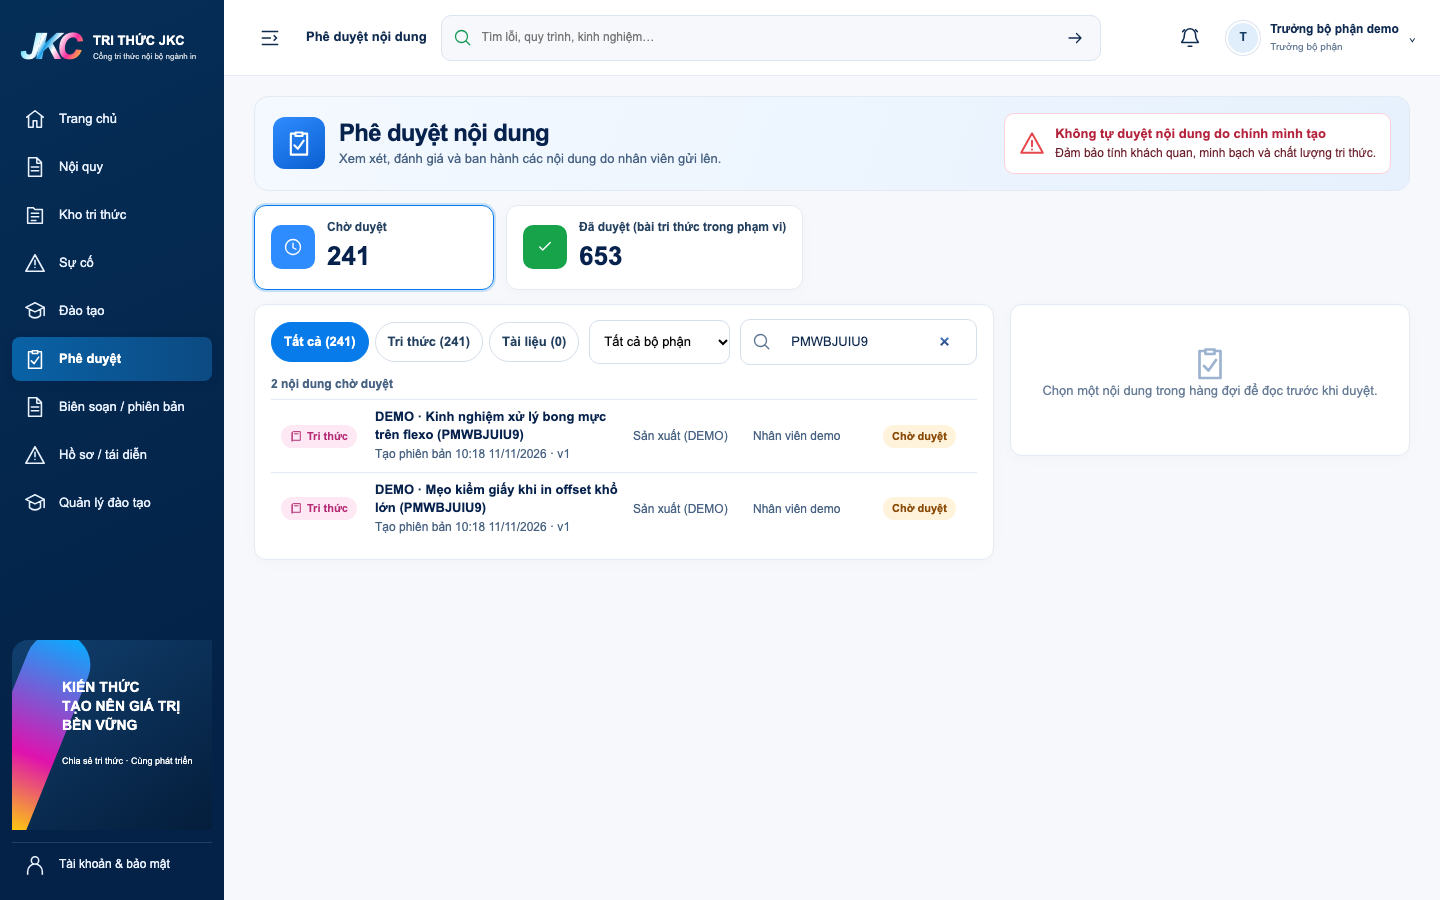
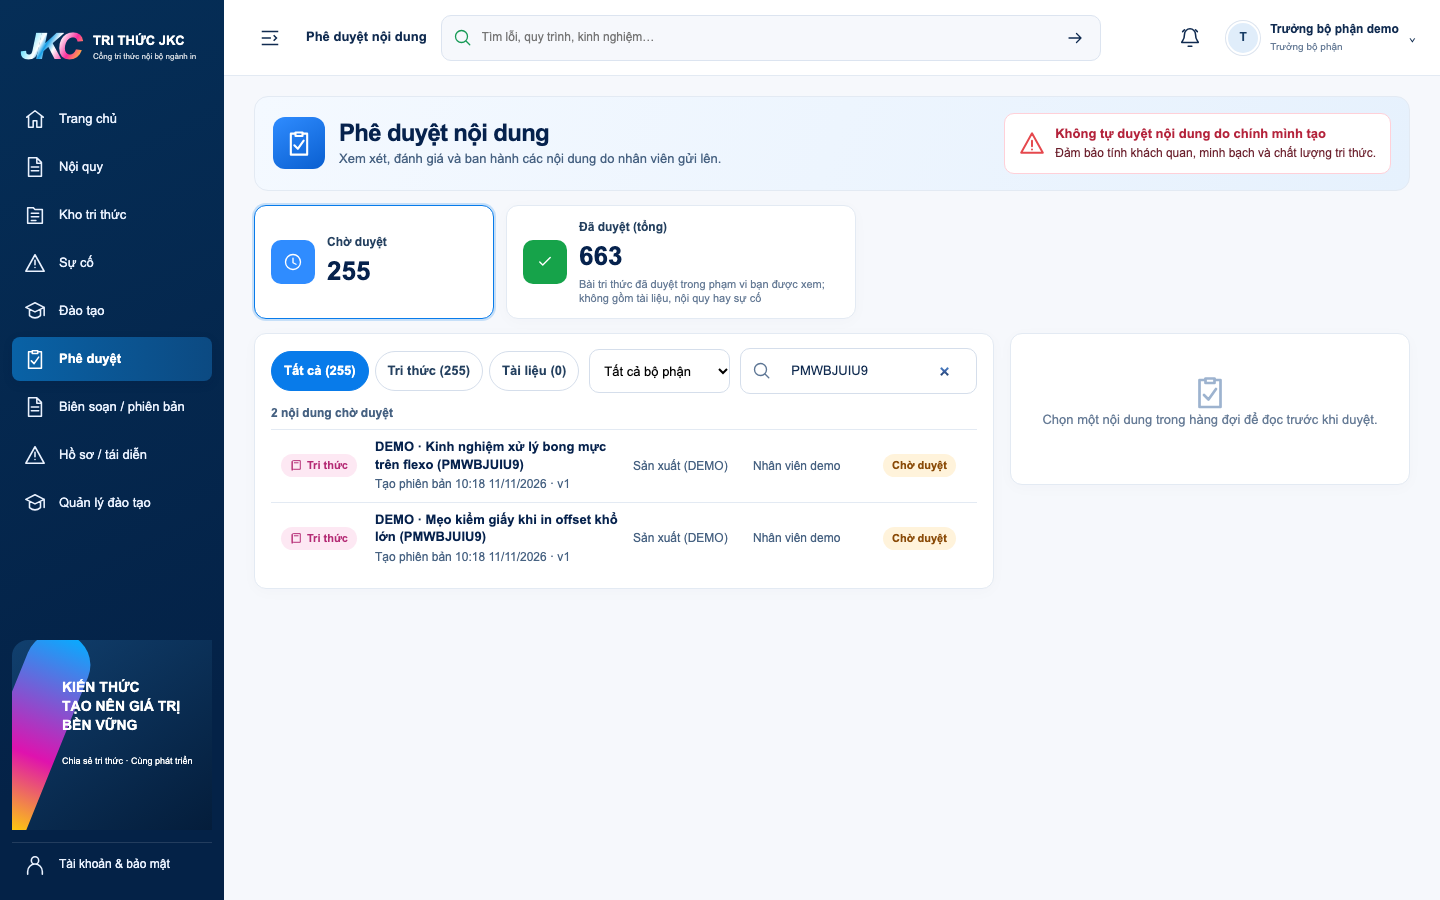
fix(web): UI-09 round 2 - clarify approved total scope; backlog priorities
PO 11/11/2026: keep the UI; label the stat 'Đã duyệt (tổng)' with its
scope (approved knowledge articles the API lets this reviewer see; not
documents, rules or incidents), same note on the history tab, asserted in
Playwright. Backlog: DATA-41/42/44 P1, DATA-43/45/46 P2 (no batch
approval), DATA-39B stays P0 before production. No API/DB change.

Changed region(s): [[0.1562, 0.2489, 0.6875, 0.6222], [0.7188, 0.3733, 0.9375, 0.4667], [0.4375, 0.2489, 0.5312, 0.28]]

diff --git a/starter/apps/web/components/approvals.tsx b/starter/apps/web/components/approvals.tsx
@@ -523,8 +523,13 @@ export function Approvals() {
                     <Glyph d={glyphs.check} />
                   </span>
                   <span>
-                    <small>Đã duyệt (bài tri thức trong phạm vi)</small>
+                    <small>Đã duyệt (tổng)</small>
                     <b>{approvedTotal}</b>
+                    {/* PO 11/11/2026: make the scope explicit (not all content of the system). */}
+                    <em className={styles.statNote}>
+                      Bài tri thức đã duyệt trong phạm vi bạn được xem; không
+                      gồm tài liệu, nội quy hay sự cố
+                    </em>
                   </span>
                 </button>
               )}
@@ -561,8 +566,8 @@ export function Approvals() {
                   ))}
                 </ul>
                 <p className={styles.muted}>
-                  Chỉ hiện bài tri thức đã duyệt trong phạm vi bộ phận (tối đa
-                  50).
+                  Chỉ hiện bài tri thức đã duyệt trong phạm vi bạn được xem (50
+                  bài mới nhất). Không gồm tài liệu, nội quy hay sự cố.
                 </p>
               </section>
             ) : (

diff --git a/starter/apps/web/approvals-tests/approvals.spec.ts b/starter/apps/web/approvals-tests/approvals.spec.ts
@@ -115,6 +115,10 @@ test("UI-09: hàng đợi theo mockup 08 — người gửi, bộ phận, nội 
   const published = await page.request.get(`/api/v1/articles/${id}`);
   expect(published.status()).toBe(200);
   expect((await published.json()).approver_name).toBe("Trưởng bộ phận demo");
+  // PO: the approved total is scoped (articles the API lets this reviewer see), not the whole system.
+  await expect(
+    page.getByRole("button", { name: /^Đã duyệt \(tổng\)/ }),
+  ).toContainText("không gồm tài liệu, nội quy hay sự cố");
   await page.getByRole("button", { name: /^Đã duyệt/ }).click();
   await expect(
     page.getByRole("region", { name: "Đã duyệt gần đây" }),

diff --git a/starter/apps/web/components/approvals.module.css b/starter/apps/web/components/approvals.module.css
@@ -115,6 +115,14 @@
   font-size: 26px;
   color: #06224d;
 }
+.statNote {
+  display: block;
+  max-width: 260px;
+  font-size: 11px;
+  font-style: normal;
+  color: var(--muted);
+  line-height: 1.35;
+}
 .statIcon {
   width: 44px;
   height: 44px;

diff --git a/docs/UI_DATA_GAPS_BACKLOG.md b/docs/UI_DATA_GAPS_BACKLOG.md
@@ -106,12 +106,12 @@ Không đổi API, DB hay nghiệp vụ. Các thiếu hụt:
 
 | ID | Đề xuất ưu tiên | Thiếu hụt | Hiện trạng | Đề xuất kỹ thuật | Cần PO/JKC chốt |
 |---|---|---|---|---|---|
-| DATA-41 | P2 | **Thời điểm gửi duyệt** trong hàng đợi (mockup "Ngày gửi") | Hàng đợi workflow chỉ có thời điểm tạo phiên bản (`created_at`); UI ghi đúng "Tạo phiên bản". `approvals.requested_at` có trong DB nhưng API workflow không trả | Thêm `requested_at` (và tên người gửi, tên bộ phận) chỉ đọc vào `jkc_content_workspace()` cho mục đang chờ | Có cần không |
-| DATA-42 | P2 | **"Yêu cầu chỉnh sửa", "Đã duyệt hôm nay"** (thẻ thống kê mockup) | RLS chỉ cho người duyệt đọc phiên bản đã duyệt hoặc đang chờ, nên không đếm được bài đã trả về/từ chối; `GET /approvals` không có `decided_at`. UI hiện 2 thẻ: Chờ duyệt và Đã duyệt (tổng trong phạm vi) | Endpoint thống kê chỉ đọc từ `approval_events` theo **người duyệt hiện tại** (đếm theo quyết định và ngày) | Chỉ số nào cần, theo người hay theo bộ phận |
-| DATA-43 | P3 | **Mức ưu tiên, từ khóa** | Chưa có trường. Bộ lọc mức ưu tiên ẩn | Thêm `priority` khi gửi duyệt; từ khóa đi cùng DATA-15 | Ai đặt mức ưu tiên |
-| DATA-44 | P2 | **Lịch sử duyệt / phiên bản** (tab "Lịch sử" trong khung chi tiết) | `approval_events` có trong DB nhưng chưa có API đọc cho người duyệt | `GET /workspace/contents/{id}/history`: các phiên bản và quyết định trước, theo quyền người duyệt | Có cần cho MVP không |
-| DATA-45 | P3 | **Duyệt hàng loạt** (ô chọn trong bảng mockup) | Không có API hàng loạt; UI cố ý duyệt **từng bài** sau khi đọc | Endpoint batch có kiểm tra từng mục, trả kết quả từng mục | Có muốn cho duyệt hàng loạt không (rủi ro duyệt không đọc) |
-| DATA-46 | P3 | **Mã nội dung nghiệp vụ** (KB-023, DOC-011) | Mã do workflow sinh là mã kỹ thuật `S1-<uuid>`, UI không hiện | Quy tắc sinh mã nghiệp vụ theo loại và năm | Quy ước mã |
+| DATA-41 | **P1** (PO 11/11/2026) | **Thời điểm gửi duyệt** trong hàng đợi (mockup "Ngày gửi") | Hàng đợi workflow chỉ có thời điểm tạo phiên bản (`created_at`); UI ghi đúng "Tạo phiên bản". `approvals.requested_at` có trong DB nhưng API workflow không trả | Thêm `requested_at` (và tên người gửi, tên bộ phận) chỉ đọc vào `jkc_content_workspace()` cho mục đang chờ | Có cần không |
+| DATA-42 | **P1** (PO 11/11/2026) | **"Yêu cầu chỉnh sửa", "Đã duyệt hôm nay"** (thẻ thống kê mockup) | RLS chỉ cho người duyệt đọc phiên bản đã duyệt hoặc đang chờ, nên không đếm được bài đã trả về/từ chối; `GET /approvals` không có `decided_at`. UI hiện 2 thẻ: Chờ duyệt và Đã duyệt (tổng trong phạm vi) | Endpoint thống kê chỉ đọc từ `approval_events` theo **người duyệt hiện tại** (đếm theo quyết định và ngày) | Chỉ số nào cần, theo người hay theo bộ phận |
+| DATA-43 | **P2** (PO 11/11/2026) | **Mức ưu tiên, từ khóa** | Chưa có trường. Bộ lọc mức ưu tiên ẩn | Thêm `priority` khi gửi duyệt; từ khóa đi cùng DATA-15 | Ai đặt mức ưu tiên |
+| DATA-44 | **P1** (PO 11/11/2026) | **Lịch sử duyệt / phiên bản** (tab "Lịch sử" trong khung chi tiết) | `approval_events` có trong DB nhưng chưa có API đọc cho người duyệt | `GET /workspace/contents/{id}/history`: các phiên bản và quyết định trước, theo quyền người duyệt | Có cần cho MVP không |
+| DATA-45 | **P2** (PO 11/11/2026) · chưa làm duyệt hàng loạt | **Duyệt hàng loạt** (ô chọn trong bảng mockup) | Không có API hàng loạt; UI cố ý duyệt **từng bài** sau khi đọc | Endpoint batch có kiểm tra từng mục, trả kết quả từng mục | Có muốn cho duyệt hàng loạt không (rủi ro duyệt không đọc) |
+| DATA-46 | **P2** (PO 11/11/2026) | **Mã nội dung nghiệp vụ** (KB-023, DOC-011) | Mã do workflow sinh là mã kỹ thuật `S1-<uuid>`, UI không hiện | Quy tắc sinh mã nghiệp vụ theo loại và năm | Quy ước mã |
 | — | — | **Sự cố** trong hàng đợi | Chưa có workflow cho INCIDENT_GUIDE (DATA-25); chip "Sự cố" ẩn | Theo DATA-24/25 | — |
 | — | — | **Lịch sử đã duyệt của HR** (tài liệu) | `GET /approvals` chỉ có bài tri thức, chỉ trưởng bộ phận, nên HR không thấy thẻ "Đã duyệt" | Đi cùng DATA-42/44 | — |
 

diff --git a/docs/reports/ui-09/REPORT.md b/docs/reports/ui-09/REPORT.md
@@ -40,7 +40,7 @@ Ngày 11/11/2026. Nhánh `feature/ui-approvals`, tách từ `feature/ui-my-cours
 - **Đầu trang:** tiêu đề, mô tả và khung cảnh báo đỏ "Không tự duyệt nội dung do chính mình tạo".
 - **Thẻ thống kê** (bấm để chuyển tab):
   - **Chờ duyệt:** số mục máy chủ cho phép người này duyệt;
-  - **Đã duyệt (bài tri thức trong phạm vi):** tổng thật từ `GET /approvals`, chỉ hiện với trưởng bộ phận.
+  - **Đã duyệt (tổng):** tổng thật từ `GET /approvals`, chỉ hiện với trưởng bộ phận. Có ghi chú phạm vi: "Bài tri thức đã duyệt trong phạm vi bạn được xem; không gồm tài liệu, nội quy hay sự cố" (vòng 2).
 - **Hàng đợi:**
   - chip loại **Tất cả / Tri thức / Tài liệu** có số đếm; lọc **bộ phận**; **tìm** tiêu đề và người gửi (không dấu); phân trang 10;
   - sắp **mới nhất trước** như mockup;
@@ -145,3 +145,27 @@ cd starter/apps/web && UI_TEST_LOCAL_CA=true UI_DEMO_PASSWORD=… UI_UAT_FIXTURE
 - Trang "Biên soạn / phiên bản" (`/workspace`) và `/learning/manage` vẫn là giao diện cũ.
 - Badge số thông báo ở header (UI-02) không đổi.
 - Không merge PR #1–#6; không deploy.
+
+## 7. Vòng 2 (11/11/2026): theo quyết định PO
+
+1. **Giao diện giữ nguyên** để nghiệm thu. Chỉ làm rõ nhãn thống kê: **"Đã duyệt (tổng)"** kèm dòng phạm vi "Bài tri thức đã duyệt trong phạm vi bạn được xem; không gồm tài liệu, nội quy hay sự cố". Ghi chú ở tab lịch sử cũng nêu rõ: 50 bài mới nhất, không gồm tài liệu, nội quy, sự cố. Playwright kiểm tra dòng phạm vi này.
+2. **Backlog:**
+   - DATA-41, DATA-42, DATA-44 → **P1** (hoàn thiện API và lịch sử phê duyệt);
+   - DATA-43, DATA-45, DATA-46 → **P2**; **chưa làm duyệt hàng loạt**;
+   - **DATA-39B giữ P0, bắt buộc trước production.**
+3. **Quy tắc giữ nguyên:** mỗi quyết định chỉ báo thành công khi máy chủ xác nhận. Đã có test cho mất mạng và xung đột 409.
+4. **Kiểm thử vòng 2:**
+
+| Kiểm tra | Kết quả |
+|---|---|
+| ESLint / TypeScript / Prettier | PASS |
+| Unit test | 50/50 PASS |
+| UI-09 Playwright (4 viewport) | **16/16 PASS** |
+| `smoke` + `sprint1` (dùng `/approvals`) | **10/10 PASS** |
+| Regression UI-01 → UI-08 | Không chạy lại: vòng 2 chỉ đổi text/CSS trong component UI-09 (CSS module riêng). Kết quả gần nhất là vòng 1, tất cả PASS |
+
+**Ảnh nghiệm thu cuối:**
+- Desktop 1440×900: [hàng đợi](after-desktop.png) · [chi tiết](after-desktop-open.png) · [so sánh mockup](comparison-desktop.png)
+- Mobile 390×844: [hàng đợi](after-mobile390.png) · [bottom sheet](after-mobile390-open.png) · [so sánh](comparison-mobile390.png)
+- Mobile 375×812: [hàng đợi](after-mobile375.png) · [bottom sheet](after-mobile375-open.png) · [so sánh](comparison-mobile375.png)
+- Tablet 768×1024: [hàng đợi](after-tablet.png) · [bottom sheet](after-tablet-open.png)
